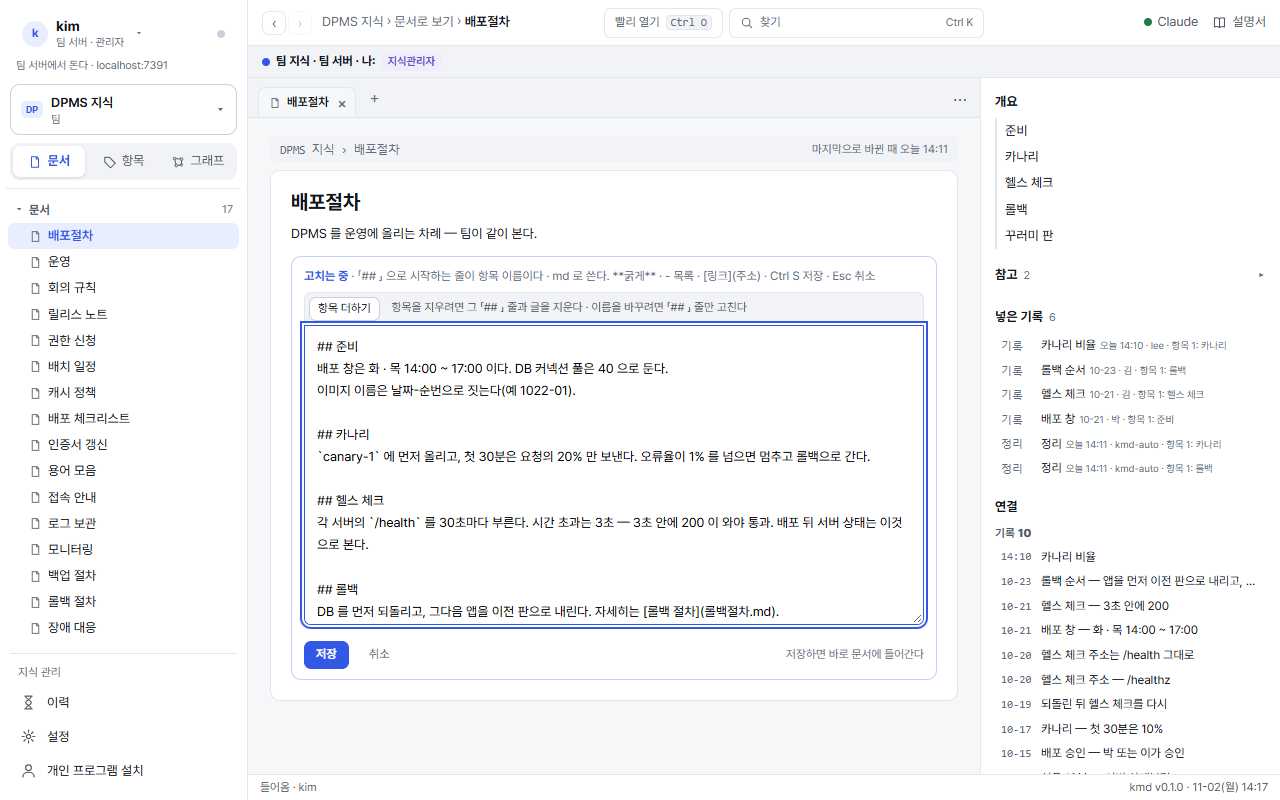
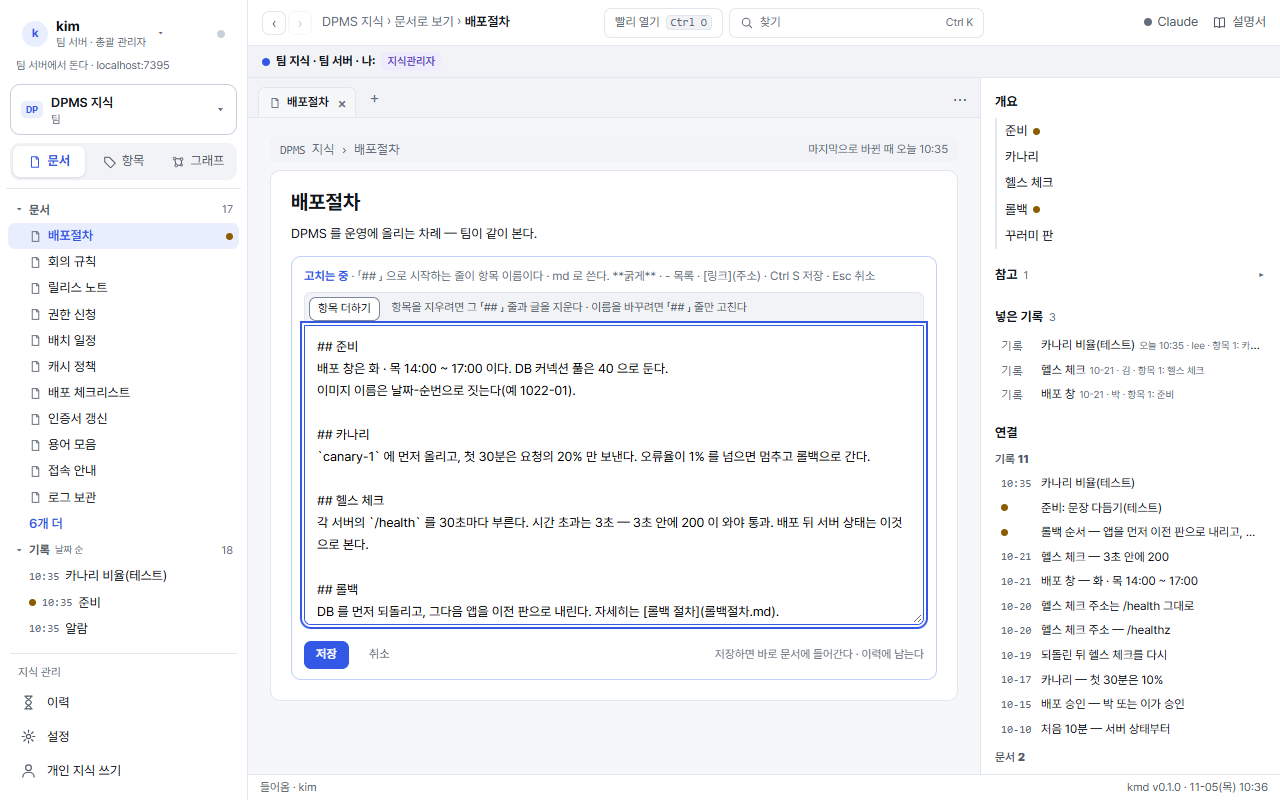
개편 끝: 설명서 그림 다시 찍기 — 팀 · 개인 그림 28장을 개편 뒤 화면으로(로컬 시험 환경 · 가짜 Claude · 시험 데이터 「테스트」) · 「개편 전 화면」 표시 · 그림 안내 상자 걷음 · 캡션 · 핀 맞춤 · 쓰지 않는 t-tidy* 셋 지움 / 화면 말: 옆 메뉴 · 설정 › 일반 「나」 의 「관리자」 → 「총괄 관리자」(용어집)

diff --git a/docs_ops/manual/사용자.html b/docs_ops/manual/사용자.html
@@ -19,8 +19,6 @@
 <li><b>개인 프로그램</b>(내 PC 의 kmd · 개인 화면): 내 개인 지식만. <a href="개인.html">개인 프로그램 설명서</a>.</li></ul>
 <p>두 화면은 서로를 부르지 않는다. 둘을 잇는 길은 Claude Code 연결 둘(<code>kmd-team</code> · <code>kmd</code>)과 개인 화면의 <b>지식 보내기</b>(개인 → 팀)뿐이다.</p></div>
 
-<div class="m-note"><b>그림</b><p>「개편 전 화면」 이라 적힌 그림은 「저장이 곧 반영」 개편(2026-11) 전에 찍었다. 그때 있던 정리 메뉴 · 정리 줄이 보이고, 옆 메뉴 맨 아래 「개인 프로그램 설치」 는 지금 「개인 지식 쓰기」 다. 글이 지금 화면을 말한다.</p></div>
-
 <h2 id="first"><span class="m-no">1</span>처음 들어오기</h2>
 <ol class="m-steps">
 <li><b>처음 들어오기 링크를 연다</b>관리자가 메신저로 보낸 링크(24시간 · 한 번)를 브라우저로 연다. 아이디는 링크와 함께 받는다.</li>
@@ -33,7 +31,7 @@
 <h2 id="screen"><span class="m-no">2</span>화면 둘러보기</h2>
 <figure class="m-shot"><div class="m-frame"><div class="m-bar"><i></i><i></i><i></i><span>팀 화면 · 문서로 보기</span></div><div class="m-pic"><img src="img/t-doc.png" alt="팀 화면: 왼쪽 메뉴 · 가운데 문서 · 오른쪽 속성 칸" loading="lazy">
 <span class="m-pin" style="left:9.8%;top:13.8%">1</span><span class="m-pin" style="left:15%;top:20%">2</span><span class="m-pin" style="left:4%;top:40%">3</span><span class="m-pin" style="left:4%;top:88%">4</span><span class="m-pin" style="left:62%;top:2.6%">5</span><span class="m-pin" style="left:45%;top:30%">6</span><span class="m-pin" style="left:73%;top:19%">7</span><span class="m-pin" style="left:88%;top:40%">8</span><span class="m-pin" style="left:95%;top:2.6%">9</span></div></div>
-<figcaption>개편 전 화면. DPMS 지식의 「배포절차」 문서를 연 모습. 오른쪽 칸 「넣은 기록」 의 「정리」 줄은 지금 없다.</figcaption></figure>
+<figcaption>DPMS 지식의 「배포절차」 문서를 연 모습(지식관리자). 넣지 못한 기록이 있는 항목 머리에 「넣지 못함 1」, 바로 넣은 항목에 「오늘 넣음: lee 의 기록에서」 가 보인다.</figcaption></figure>
 <ol class="m-legend">
 <li><b>지식 고르기</b>: 지식을 바꾸거나 「지식 목록: 전체」 로 간다.</li>
 <li><b>보는 법 셋</b>: 문서 · 항목 · 그래프.</li>
@@ -49,12 +47,12 @@
 
 <h3>지식 목록</h3>
 <figure class="m-shot"><div class="m-frame"><div class="m-bar"><i></i><i></i><i></i><span>팀 화면 · 지식 목록</span></div><div class="m-pic"><img src="img/t-home.png" alt="지식 목록: 팀 지식 카드와 새 팀 지식 카드" loading="lazy"></div></div>
-<figcaption>개편 전 화면. 카드마다 문서 수 · 마지막으로 바뀐 때 · 내 자리 표지 · 넣지 못함이 있으면 「넣지 못함 n」. 카드를 끌어 순서를 바꾸고, ⋯ 에서 「메뉴에서 빼기」 · 권한(지식관리자). 「+ 새 팀 지식」 은 총괄 관리자에게만 보인다.</figcaption></figure>
+<figcaption>카드마다 문서 수 · 마지막으로 바뀐 때 · 내 자리 표지 · 넣지 못함이 있으면 「넣지 못함 n」. 카드를 끌어 순서를 바꾸고, ⋯ 에서 「메뉴에서 빼기」 · 권한(지식관리자). 「+ 새 팀 지식」 은 총괄 관리자에게만 보인다.</figcaption></figure>
 
 <h2 id="view"><span class="m-no">3</span>보는 법 셋</h2>
 <div class="m-cards">
 <div class="m-card"><img src="img/t-doc.png" alt="" loading="lazy"><b>문서</b><p>문서 하나 = md 파일 하나. 항목(## 머리)으로 나뉜다. 글 속 문서 · 항목 링크에 마우스를 올리면 미리보기.</p></div>
-<div class="m-card"><img src="img/t-items.png" alt="" loading="lazy"><b>항목</b><p>테이블 · 화면 · API · 절차 · 용어처럼 이름 있는 것 하나하나. 종류별로 거르고, 「이 항목을 쓰는 곳」 이 같이 보인다. 그림은 개편 전 화면.</p></div>
+<div class="m-card"><img src="img/t-items.png" alt="" loading="lazy"><b>항목</b><p>테이블 · 화면 · API · 절차 · 용어처럼 이름 있는 것 하나하나. 종류별로 거르고, 「이 항목을 쓰는 곳」 이 같이 보인다.</p></div>
 <div class="m-card"><img src="img/t-graph.png" alt="" loading="lazy"><b>그래프</b><p>항목 · 문서 · 기록이 어떻게 이어졌나. 점을 누르면 이웃만 남는다.</p></div>
 </div>
 
@@ -78,7 +76,7 @@
 <tr><td><span class="m-role r-admin">총괄 관리자</span></td><td>모든 지식의 지식관리자 + 사람 · 팀 지식 세우기 · 백업 · Claude 연결</td><td>바로 문서에 들어간다</td></tr>
 </table></div>
 <figure class="m-shot"><div class="m-frame"><div class="m-bar"><i></i><i></i><i></i><span>문서 · 고치기</span></div><div class="m-pic"><img src="img/t-edit.png" alt="고치는 창: 항목 글을 고치고 저장" loading="lazy"></div></div>
-<figcaption>개편 전 화면(오른쪽 「넣은 기록」 의 「정리」 줄은 지금 없다). [고치기] 를 누르면 문서가 고치는 창이 된다. 저장하면 바로 문서에 들어가고 이력에 남는다. [항목 더하기] · 지식관리자는 「## 」 줄을 지우면 항목 지우기 · 「## 」 줄만 고치면 이름 바꾸기(저장 전에 한 번 묻는다).</figcaption></figure>
+<figcaption>[고치기] 를 누르면 문서가 고치는 창이 된다. 저장하면 바로 문서에 들어가고 이력에 남는다. [항목 더하기] · 지식관리자는 「## 」 줄을 지우면 항목 지우기 · 「## 」 줄만 고치면 이름 바꾸기(저장 전에 한 번 묻는다).</figcaption></figure>
 <ul>
 <li>쓰던 글은 찾기를 열고 닫거나 다른 화면에 갔다 와도 그대로다. 저장하지 않고 닫았으면 다음 [고치기] 때 되살린다(이 탭 안에서).</li>
 <li>들어온 것이 끝났으면(12시간 쉼 · 7일) 저장할 때 그 자리에서 비밀번호를 묻고 이어서 저장한다.</li>
@@ -94,7 +92,7 @@
 <li>그 기록이 들어간 항목이 없으면 정정 기록만 남고 「넣지 못함」 이 된다. 지식관리자가 넣을 곳을 고른다.</li>
 </ul>
 <figure class="m-shot"><div class="m-frame"><div class="m-bar"><i></i><i></i><i></i><span>쓰기 자리(lee)로 본 문서</span></div><div class="m-pic"><img src="img/t-lee.png" alt="쓰기 자리 사람이 본 문서" loading="lazy"></div></div>
-<figcaption>개편 전 화면. 쓰기 자리 사람의 화면. 위 띠에 「나: 쓰기」 가 보이고, 고친 것은 바로 문서에 들어간다.</figcaption></figure>
+<figcaption>쓰기 자리 사람의 화면. 위 띠에 「나: 쓰기」 가 보이고, 고친 것은 바로 문서에 들어간다.</figcaption></figure>
 <div class="m-note m-tip"><b>문서에 넣는 글의 기준</b><p>본문에는 확정된 지식만 쓴다. 회의 경위 · 초안 · 「언제 누가 바꿨나」 는 기록과 이력에 남고, 출처 줄은 kmd 가 문서 끝 「참고」 에 단다. 링크는 문서(<code>x.md</code>) · 항목(<code>x.md#머리</code>) · 바깥(<code>https://…</code>) 셋만.</p></div>
 
 <h2 id="import"><span class="m-no">6</span>가져오기: 파일 · 폴더 넣기</h2>
@@ -102,7 +100,7 @@
 <div class="m-flow"><div class="m-st m-hi"><b>1 수집</b><small>받기 · 글로 바꾸기</small></div><span class="m-ar">›</span><div class="m-st"><b>2 검토</b><small>같은 파일 · 크기 확인</small></div><span class="m-ar">›</span><div class="m-st m-pd"><b>3 짓기</b><small>팀 일꾼이 기록 + 문서를 짓는다</small></div><span class="m-ar">›</span><div class="m-st m-ok"><b>4 넣기</b><small>저장 한 번 · 이력에 남는다</small></div></div>
 <figure class="m-shot"><div class="m-frame"><div class="m-bar"><i></i><i></i><i></i><span>설정 › 가져오기 · 일 줄</span></div><div class="m-pic"><img src="img/t-import.png" alt="가져오기 일 줄: 넣을 곳 · 줄 · 오른쪽 자세히의 흐름" loading="lazy">
 <span class="m-pin" style="left:37%;top:32%">1</span><span class="m-pin" style="left:37%;top:44%">2</span><span class="m-pin" style="left:85%;top:49%">3</span><span class="m-pin" style="left:76%;top:84%">4</span></div></div>
-<figcaption>개편 전 화면(왼쪽 설정 메뉴의 정리는 지금 없다). 「배포 회의 메모.md」 를 DPMS 지식에 넣은 뒤의 일 줄.</figcaption></figure>
+<figcaption>「테스트 배포 회의 메모.md」 를 DPMS 지식에 넣은 뒤. 네 단계가 모두 끝남이고, 상태 칸에 넣은 문서 › 항목이 보인다.</figcaption></figure>
 <ol class="m-legend">
 <li><b>넣는 곳</b>: 끌어다 놓기 · 파일 고르기 · 폴더 고르기 · 넣을 지식.</li>
 <li><b>거르기 · 손잡이</b>: 전체 · 도는 중 · 기다림 · 멈춤 · 확인. 동시에 도는 수 · 줄 멈춤.</li>
@@ -118,13 +116,13 @@
 <li>손잡이: 팀 일꾼에게 넘긴 파일은 [빼기] · [그만두기] 만 있다. 아직 짓지 않았으면 기록 없이 닫고, 짓는 중이면 초안을 넣지 않고 닫는다.</li>
 <li><b>끝난 일</b>은 30일 남는다(터미널 줄까지). 파일 · 제목으로 찾는다.</li>
 </ul>
-<figure class="m-shot"><div class="m-frame"><div class="m-bar"><i></i><i></i><i></i><span>가져오기 · 끝난 일</span></div><div class="m-pic"><img src="img/t-import-done.png" alt="끝난 일 목록" loading="lazy"></div></div><figcaption>개편 전 화면.</figcaption></figure>
+<figure class="m-shot"><div class="m-frame"><div class="m-bar"><i></i><i></i><i></i><span>가져오기 · 끝난 일</span></div><div class="m-pic"><img src="img/t-import-done.png" alt="끝난 일 목록" loading="lazy"></div></div><figcaption>끝난 일: 날마다 시각 · 일 · 단계 · 결과 · [보기] · 터미널. 파일 · 제목 · 갈래 · 결과로 거른다.</figcaption></figure>
 <h3>가져올 곳(지켜보며 맞추기)</h3>
 <p>문서 폴더 · 소스 코드(git) · DB 를 정한 때마다 다시 본다. 더하기 · 고치기는 그 지식의 지식관리자가 한다. 쓰기 자리는 [관리자에게 부탁] 을 누른다. 자세한 것은 <a href="지식관리자.html#sources">지식관리자 설명서</a>.</p>
 
 <h2 id="history"><span class="m-no">7</span>이력</h2>
 <figure class="m-shot"><div class="m-frame"><div class="m-bar"><i></i><i></i><i></i><span>지식 관리 › 이력</span></div><div class="m-pic"><img src="img/t-history.png" alt="이력: 날마다 바뀐 것 · 값 바뀜" loading="lazy"></div></div>
-<figcaption>개편 전 화면. 내가 볼 수 있는 팀 지식에서 바뀐 것을 한 흐름으로(날마다). 갈래는 저장 · 고침 · 들이기 · 다듬기 · 되돌림 · 넣지 못함 · 버림 · 가져오기 · 받음 · 설정 · 지식(새 지식 · 지움 · 새 기기). 개편 전에 남은 줄은 「정리」 · 「바로 넣기」 갈래로 보인다.</figcaption></figure>
+<figcaption>내가 볼 수 있는 팀 지식에서 바뀐 것을 한 흐름으로(날마다). 갈래는 저장 · 고침 · 들이기 · 다듬기 · 되돌림 · 넣지 못함 · 버림 · 가져오기 · 받음 · 설정 · 지식(새 지식 · 지움 · 새 기기). 그림은 저장 줄(「카나리: 10% → 20%」)과 넣지 못함 줄. 개편 전에 남은 줄은 「정리」 · 「바로 넣기」 갈래로 보인다.</figcaption></figure>
 <ul>
 <li>내 값이 바뀐 줄은 맨 위 <b>값 바뀜</b>(노랑). 저장 줄을 펼치면 넣은 항목마다 「옛 값 → 새 값」 이 보이고, 내 저장(지식관리자는 모든 저장)은 그 항목만 [되돌리기] 한다. 그 뒤 누가 다시 고친 항목은 되돌리지 않는다.</li>
 <li>갈래 · 지식으로 거르고, 줄을 누르면 펼쳐 그 일 · 문서를 연다.</li>
@@ -133,7 +131,7 @@
 
 <h2 id="claude"><span class="m-no">8</span>Claude Code 에 팀 지식 붙이기</h2>
 <p>설정 › <b>에이전트 설치</b>(누구나). 작업 폴더의 Claude Code 가 팀 지식을 읽고 남기게 한다.</p>
-<figure class="m-shot"><div class="m-frame"><div class="m-bar"><i></i><i></i><i></i><span>설정 › 에이전트 설치</span></div><div class="m-pic"><img src="img/t-agent.png" alt="에이전트 설치: 팀 지식마다 설치 명령 복사" loading="lazy"></div></div><figcaption>개편 전 화면(왼쪽 설정 메뉴의 정리는 지금 없다).</figcaption></figure>
+<figure class="m-shot"><div class="m-frame"><div class="m-bar"><i></i><i></i><i></i><span>설정 › 에이전트 설치</span></div><div class="m-pic"><img src="img/t-agent.png" alt="에이전트 설치: 팀 지식마다 설치 명령 복사" loading="lazy"></div></div><figcaption>네 걸음 안내 · 대량 넣기 안내 · 붙일 팀 지식마다 [설치 명령 복사].</figcaption></figure>
 <ol class="m-steps">
 <li><b>붙일 팀 지식의 [설치 명령 복사]</b>내가 읽기 자리 이상인 팀 지식만 고를 수 있다.</li>
 <li><b>작업 폴더의 PowerShell 에 붙여 넣고 Enter</b>그 폴더에 팀 스킬 셋(<code>kmd-team-work</code> · <code>kmd-team-save</code> · <code>kmd-team-import</code>) · 연결 <code>kmd-team</code>(.mcp.json) · CLAUDE.md 안내만 쓴다. 다른 연결 · 사람이 쓴 줄은 그대로다. 끝에 Claude Code 가 이 PC 에 있나 · 로그인했나를 한 줄로 알린다(없으면 깔고, 로그인하지 않았으면 터미널에서 <code>claude auth login</code>). 팀 지식만 쓰면 개인 프로그램은 깔지 않아도 된다.</li>
@@ -152,8 +150,8 @@
 
 <h2 id="install"><span class="m-no">9</span>개인 지식 쓰기</h2>
 <p>옆 메뉴 맨 아래 <b>개인 지식 쓰기</b>(누구나). 팀 지식만 쓰면 개인 프로그램은 필요 없다(8절 에이전트 설치 한 줄이면 된다). 개인 지식을 쓰려면: 이 PC 에 개인 프로그램을 깔고(또는 새 판으로 올리고) 팀에 잇는 한 줄과 내 기기 목록이 여기 있다.</p>
-<figure class="m-shot"><div class="m-frame"><div class="m-bar"><i></i><i></i><i></i><span>개인 지식 쓰기</span></div><div class="m-pic"><img src="img/t-install.png" alt="개인 지식 쓰기: 개인 프로그램 설치 · 업데이트 · 잇기 한 줄과 내 기기" loading="lazy"></div></div>
-<figcaption>개편 전 화면(그때 메뉴 이름은 「개인 프로그램 설치」). [한 줄 복사] → PowerShell 에 붙여 넣는다(10분 · 한 번). 그 뒤의 일은 <a href="개인.html">개인 프로그램 설명서</a>.</figcaption></figure>
+<figure class="m-shot"><div class="m-frame"><div class="m-bar"><i></i><i></i><i></i><span>개인 지식 쓰기</span></div><div class="m-pic"><img src="img/t-install.png" alt="개인 지식 쓰기: 설치 · 업데이트 · 잇기 한 줄과 내 기기" loading="lazy"></div></div>
+<figcaption>[한 줄 복사] → PowerShell 에 붙여 넣는다(10분 · 한 번). 그 뒤의 일은 <a href="개인.html">개인 프로그램 설명서</a>.</figcaption></figure>
 
 <h2 id="out"><span class="m-no">10</span>나가기 · 밖으로 나가는 것</h2>
 <ul>

diff --git a/docs_ops/manual/개인.html b/docs_ops/manual/개인.html
@@ -18,7 +18,7 @@
 <h2 id="install"><span class="m-no">1</span>설치 · 업데이트 · 팀에 잇기</h2>
 <p>팀 지식만 쓰면 개인 프로그램은 필요 없다: 팀 화면 › 설정 › 에이전트 설치의 한 줄로 작업 폴더의 Claude Code 에 팀 지식을 붙이고, 폴더째 많은 파일도 그 Claude Code 에서 넣는다(대량 넣기 <code>kmd-team-import</code>). 개인 지식을 쓰려면 이 프로그램을 깐다.</p>
 <p>까는 길도, 새 판으로 올리는 길도 <b>한 줄</b>이다. 팀 화면 › 옆 메뉴 <b>개인 지식 쓰기</b> › [한 줄 복사] → PowerShell 에 붙여 넣는다(10분 안에 한 번).</p>
-<figure class="m-shot"><div class="m-frame"><div class="m-bar"><i></i><i></i><i></i><span>팀 화면 › 개인 지식 쓰기</span></div><div class="m-pic"><img src="img/t-install.png" alt="개인 지식 쓰기: 한 줄 복사 · 내 기기" loading="lazy"></div></div><figcaption>개편 전 화면(그때 메뉴 이름은 「개인 프로그램 설치」).</figcaption></figure>
+<figure class="m-shot"><div class="m-frame"><div class="m-bar"><i></i><i></i><i></i><span>팀 화면 › 개인 지식 쓰기</span></div><div class="m-pic"><img src="img/t-install.png" alt="개인 지식 쓰기: 한 줄 복사 · 내 기기" loading="lazy"></div></div><figcaption>팀 화면 옆 메뉴 맨 아래 「개인 지식 쓰기」: 설치 · 업데이트 · 잇기 한 줄 [한 줄 복사] 와 내 이름으로 이은 기기.</figcaption></figure>
 <p>묻는 것 없이 끝나고 ✓ 넷이 찍힌다.</p>
 <pre><code>✓ 세웠다: 이 PC 의 내 지식 자리(D:\kmd)와 백업 자리
 ✓ 팀에 이었다: 내 이름으로
@@ -54,10 +54,10 @@
 <li><b>정리가 따로 없다.</b> 기록(세션 · 화면 · 받은 것 · 소스 코드 묶음 · 넣은 파일)은 남는 즉시 문서에 들어간다. Claude 로 다듬어 넣고(검사를 넘을 때만), 로그인이 없거나 검사를 못 넘으면 규칙으로 넣는다.</li>
 <li><b>편집기로 md 를 직접 고쳐도 된다.</b> 30초 조용하면 저절로 들어가고, 꺼져 있던 동안 고친 것은 켤 때 거둔다. 기록(<code>work/</code>) · 이름 장부는 고치지 않는다(kmd 가 되돌리고 사본을 남긴다).</li>
 </ul>
-<figure class="m-shot"><div class="m-frame"><div class="m-bar"><i></i><i></i><i></i><span>개인 화면 · 문서</span></div><div class="m-pic"><img src="img/p-doc.png" alt="개인 지식 배포노트의 카나리 메모 문서" loading="lazy"></div></div><figcaption>개편 전 화면(오른쪽 속성 칸의 「마지막 정리」 는 지금 「마지막으로 넣음」 이다).</figcaption></figure>
+<figure class="m-shot"><div class="m-frame"><div class="m-bar"><i></i><i></i><i></i><span>개인 화면 · 문서</span></div><div class="m-pic"><img src="img/p-doc.png" alt="개인 지식 배포노트의 카나리 메모 문서" loading="lazy"></div></div><figcaption>개인 지식 배포노트의 「카나리 메모」 문서. 오른쪽 칸은 개요 · 넣은 기록 · 연결 · 속성(마지막으로 넣음 · 자리 · 항목 수).</figcaption></figure>
 
 <h2 id="import"><span class="m-no">4</span>파일 넣기 · 가져오기</h2>
-<figure class="m-shot"><div class="m-frame"><div class="m-bar"><i></i><i></i><i></i><span>설정 › 가져오기</span></div><div class="m-pic"><img src="img/p-import.png" alt="개인 화면 가져오기 일 줄" loading="lazy"></div></div><figcaption>개편 전 화면(위 띠의 「Claude 정리뿐」 은 지금 「Claude 바로 넣기뿐」 이다).</figcaption></figure>
+<figure class="m-shot"><div class="m-frame"><div class="m-bar"><i></i><i></i><i></i><span>설정 › 가져오기</span></div><div class="m-pic"><img src="img/p-import.png" alt="개인 화면 가져오기 일 줄" loading="lazy"></div></div><figcaption>개인 화면의 가져오기: 넣을 곳(개인 지식) · 일 줄 · 가져올 곳 · 끝난 일. 위 띠 오른쪽 「밖으로 나가는 것은 백업 · Claude 바로 넣기뿐」.</figcaption></figure>
 <p>파일을 끌어다 놓으면 파일마다 기록이 되고, kmd 가 Claude Code 를 띄워 <b>세션처럼</b> 넣는다. 일 줄의 단계 이름은 수집 › 검토 › <b>짓기</b>(기록 쓰기) › <b>넣기</b>(항목에 넣기)다.</p>
 <div class="m-flow"><div class="m-st"><b>끝까지 읽기</b><small>넣은 파일</small></div><span class="m-ar">›</span><div class="m-st"><b>둘러보기</b><small>지식의 문서 · 이름</small></div><span class="m-ar">›</span><div class="m-st"><b>이름 맞추기</b><small>테이블 · 화면 · 절차 · 용어</small></div><span class="m-ar">›</span><div class="m-st m-hi"><b>항목에 넣기</b><small>갈래 · 주제 문서</small></div><span class="m-ar">›</span><div class="m-st m-ok"><b>이력에 남기기</b><small>무엇을 왜 어디에</small></div></div>
 <ul>
@@ -69,7 +69,7 @@
 
 <h2 id="send"><span class="m-no">5</span>지식 보내기(개인 → 팀)</h2>
 <figure class="m-shot"><div class="m-frame"><div class="m-bar"><i></i><i></i><i></i><span>설정 › 지식 보내기</span></div><div class="m-pic"><img src="img/p-send.png" alt="지식 보내기: 보내는 지식에서 받는 팀 지식 고르기" loading="lazy">
-<span class="m-pin" style="left:40%;top:24%">1</span><span class="m-pin" style="left:76%;top:24%">2</span><span class="m-pin" style="left:60%;top:46%">3</span><span class="m-pin" style="left:93%;top:59%">4</span></div></div><figcaption>개편 전 화면. 그림의 「정리 때 문서에」 는 지금 「받을 때 곧바로 문서에」 다.</figcaption></figure>
+<span class="m-pin" style="left:40%;top:24%">1</span><span class="m-pin" style="left:76%;top:24%">2</span><span class="m-pin" style="left:60%;top:46%">3</span><span class="m-pin" style="left:93%;top:61%">4</span></div></div><figcaption>받는 지식을 아직 정하지 않은 개인 지식. 팀 지식 줄마다 「받을 때 곧바로 문서에」.</figcaption></figure>
 <ol class="m-legend">
 <li><b>보내는 지식</b>(개인).</li>
 <li><b>받는 지식</b>(팀). 개인 지식마다 하나로 묶인다. 처음 한 번 정한다.</li>
@@ -91,7 +91,7 @@
 <figure class="m-shot"><div class="m-frame"><div class="m-bar"><i></i><i></i><i></i><span>설정 › 일반</span></div><div class="m-pic"><img src="img/p-gen.png" alt="개인 설정 일반: 지식 폴더 · 백업 · 저절로 하는 일 · 보내는 길" loading="lazy"></div></div>
 <figcaption>지식 폴더 · 백업 자리 · 백업에서 되살리기 · 저절로 하는 일(켜고 끄기) · 보내는 길.</figcaption></figure>
 <h3 id="claude-login">Claude 로그인</h3>
-<figure class="m-shot"><div class="m-frame"><div class="m-bar"><i></i><i></i><i></i><span>설정 › Claude 연결</span></div><div class="m-pic"><img src="img/p-claude.png" alt="Claude 연결: 로그인 상태 · 일마다 모델" loading="lazy"></div></div><figcaption>개편 전 화면(위 띠의 「Claude 정리뿐」 은 지금 「Claude 바로 넣기뿐」, 모델 줄의 「항목 글 초안」 은 지금 「들이기 초안」 이다).</figcaption></figure>
+<figure class="m-shot"><div class="m-frame"><div class="m-bar"><i></i><i></i><i></i><span>설정 › Claude 연결</span></div><div class="m-pic"><img src="img/p-claude.png" alt="Claude 연결: 로그인 상태 · 일마다 모델" loading="lazy"></div></div><figcaption>로그인 상태 카드와 일마다 모델(pdf · hwp 를 글로 · 넣은 파일의 기록 정리 · 기록의 이름 고르기 · 들이기 초안 …).</figcaption></figure>
 <ol class="m-steps">
 <li><b>[Claude 로그인] 을 누른다</b>작업 표시줄에 「kmd: Claude 로그인」 창(<code>claude auth login</code>)이 뜨고 브라우저를 연다.</li>
 <li><b>브라우저에서 Claude 에 들어간다</b>이 화면이 몇 초마다 저절로 확인해 「로그인됨」 으로 바뀐다([지금 확인] 도 있다).</li>

diff --git a/docs_ops/manual/관리자.html b/docs_ops/manual/관리자.html
@@ -13,7 +13,6 @@
 <h1>총괄 관리자</h1>
 <p class="m-lead">팀 서버(팀 프로그램)를 세우고, 사람 · 지식마다의 자리 · 백업 · 팀 일꾼 Claude 로그인을 돌본다. 지식 하나의 넣지 못함 · 다듬기 · 가져오기 · 권한은 <a href="지식관리자.html">지식관리자 설명서</a>, 밤 묶음 · 되살리기 · 새 판은 <a href="운영.html">운영 설명서</a>.</p>
 
-<div class="m-note"><b>그림</b><p>「개편 전 화면」 이라 적힌 그림은 「저장이 곧 반영」 개편(2026-11) 전에 찍었다. 그때 있던 정리 메뉴 · 정리 줄이 보이고, 옆 메뉴 맨 아래 「개인 프로그램 설치」 는 지금 「개인 지식 쓰기」 다. 글이 지금 화면을 말한다.</p></div>
 
 <h2 id="setup"><span class="m-no">1</span>팀 서버 세우기</h2>
 <div class="m-flow"><div class="m-st"><b>팀 꾸러미</b><small>kmd-&lt;판&gt;-team.tgz</small></div><span class="m-ar">›</span><div class="m-st m-hi"><b>kmd-install.sh</b><small>/opt/kmd · systemd</small></div><span class="m-ar">›</span><div class="m-st"><b>첫 설정 주소</b><small>총괄 관리자 만들기</small></div><span class="m-ar">›</span><div class="m-st m-ok"><b>사람 더하기</b><small>처음 들어오기 링크</small></div></div>
@@ -30,8 +29,8 @@ sudo sh kmd-install.sh --team --url http://kmd.team.local --root /srv/kmd --port
 </ul>
 
 <h2 id="admin"><span class="m-no">2</span>관리 화면: 문제 줄만</h2>
-<figure class="m-shot"><div class="m-frame"><div class="m-bar"><i></i><i></i><i></i><span>설정 › 관리</span></div><div class="m-pic"><img src="img/t-admin.png" alt="관리 화면: 문제 줄 · 백업 · 지식" loading="lazy"></div></div>
-<figcaption>개편 전 화면. 잘 될 때는 비어 있다. 손볼 것만 줄로 선다.</figcaption></figure>
+<figure class="m-shot"><div class="m-frame"><div class="m-bar"><i></i><i></i><i></i><span>설정 › 관리</span></div><div class="m-pic"><img src="img/t-admin.png" alt="관리 화면: 오늘의 문제 줄 · 사람 · 묶음" loading="lazy"></div></div>
+<figcaption>잘 될 때는 「오늘은 문제가 없다」 만 보인다. 손볼 것만 줄로 선다. 아래로 사람 · 묶음 카드가 잇는다.</figcaption></figure>
 <div class="m-tbl"><table><tr><th>문제 줄</th><th>하는 것</th></tr>
 <tr><td>비밀번호를 안 정한 사람</td><td>사람 카드 ⋯ › [새 링크](이 사람만 · 24시간 · 한 번). 떠난 사람이면 [떠남]</td></tr>
 <tr><td>잠김</td><td>여러 번 틀린 자리는 잠시 막힌다(맞는 사람은 그대로 쓴다). [풀기]</td></tr>
@@ -44,7 +43,7 @@ sudo sh kmd-install.sh --team --url http://kmd.team.local --root /srv/kmd --port
 
 <h2 id="people"><span class="m-no">3</span>사람</h2>
 <figure class="m-shot"><div class="m-frame"><div class="m-bar"><i></i><i></i><i></i><span>설정 › 사람</span></div><div class="m-pic"><img src="img/t-people.png" alt="사람 카드: 상태 · 기기 · 지식마다 자리" loading="lazy">
-<span class="m-pin" style="left:40%;top:54%">1</span><span class="m-pin" style="left:45%;top:33%">2</span><span class="m-pin" style="left:95%;top:38%">3</span></div></div><figcaption>개편 전 화면(왼쪽 설정 메뉴의 정리는 지금 없다).</figcaption></figure>
+<span class="m-pin" style="left:40%;top:52%">1</span><span class="m-pin" style="left:45%;top:33%">2</span><span class="m-pin" style="left:95%;top:36%">3</span></div></div><figcaption>사람 셋(kim 총괄 관리자 · park · lee)과 묶음 카드. 아래 줄에 총괄 관리자와 지식마다 자리가 하는 일.</figcaption></figure>
 <ol class="m-legend">
 <li><b>+ 사람 더하기</b>: 아이디 · 총괄 관리자 여부 · 지식마다 자리 표.</li>
 <li><b>사람 카드</b>: 상태(들어온다 · 링크 보냄 · 비밀번호를 안 정함) · 기기 · 「지식 n개에 자리」.</li>
@@ -74,7 +73,7 @@ sudo sh kmd-install.sh --team --url http://kmd.team.local --root /srv/kmd --port
 </table></div>
 
 <h2 id="claude"><span class="m-no">5</span>Claude 연결: 팀 일꾼 로그인</h2>
-<figure class="m-shot"><div class="m-frame"><div class="m-bar"><i></i><i></i><i></i><span>설정 › Claude 연결</span></div><div class="m-pic"><img src="img/t-claude.png" alt="Claude 연결: 팀 일꾼 로그인 상태" loading="lazy"></div></div><figcaption>개편 전 화면. 지금 이 화면(설정 › Claude 연결)의 카드는 「팀 일꾼 로그인」 을 다루고, 쓰는 곳은 들이기(파일 넣기 · 가져올 곳 · 정정 · 다시 들이기 · 다듬기)다.</figcaption></figure>
+<figure class="m-shot"><div class="m-frame"><div class="m-bar"><i></i><i></i><i></i><span>설정 › Claude 연결</span></div><div class="m-pic"><img src="img/t-claude.png" alt="Claude 연결: 팀 일꾼 로그인 상태" loading="lazy"></div></div><figcaption>「Claude 연결」 카드(팀 일꾼 로그인): 로그인됨 · [다시 로그인]. 쓰는 곳은 들이기(파일 넣기 · 가져올 곳 · 정정 · 다시 들이기)와 문서 다듬기다.</figcaption></figure>
 <ol class="m-steps">
 <li><b>[로그인 시작]</b>: 15분 안에 비밀번호를 넣지 않았으면 「비밀번호 한 번 더」 창이 먼저 뜬다.</li>
 <li><b>화면 있는 서버</b>(Windows · macOS · 화면 있는 Linux)면 그 PC 에 「kmd: Claude 로그인」 창이 뜬다. 거기서 로그인하면 관리 화면이 몇 초마다 저절로 확인한다.</li>
@@ -88,7 +87,7 @@ sudo sh kmd-install.sh --team --url http://kmd.team.local --root /srv/kmd --port
 <p>일꾼 손잡이는 <code>/etc/kmd/worker.env</code> 의 환경 변수다: <code>KMD_WORKER_PAR</code>(Claude 동시 호출 · 기본 3) · <code>KMD_WORKER_JOBS</code>(일감을 나란히 · 기본 2) · <code>KMD_INGEST_BUDGET</code>(들이기 한 번의 예산 달러 · 기본 1.0) · <code>KMD_INGEST_EFFORT</code> · <code>KMD_INGEST_FIX</code>(고쳐 쓰기 · 기본 2). 옛 이름 <code>KMD_TIDY_*</code> 도 읽는다. 고친 뒤 <code>systemctl restart kmd-worker</code>.</p>
 
 <h2 id="general"><span class="m-no">6</span>일반 설정 · 백업 자리</h2>
-<figure class="m-shot"><div class="m-frame"><div class="m-bar"><i></i><i></i><i></i><span>설정 › 일반</span></div><div class="m-pic"><img src="img/t-gen.png" alt="일반: 이 팀 서버 · 저절로 하는 일" loading="lazy"></div></div><figcaption>개편 전 화면. 오른쪽 위 카드는 지금 「팀 지식」 표다: 지식마다 넣지 못함 수와 「Claude 에 보내지 않음」 스위치(지식관리자 · <a href="지식관리자.html#polish">지식관리자 설명서 3절</a>).</figcaption></figure>
+<figure class="m-shot"><div class="m-frame"><div class="m-bar"><i></i><i></i><i></i><span>설정 › 일반</span></div><div class="m-pic"><img src="img/t-gen.png" alt="일반: 이 팀 서버 · 팀 지식 표 · 저절로 하는 일" loading="lazy"></div></div><figcaption>왼쪽은 이 팀 서버(들어가기 · 백업 · 판), 오른쪽 위는 「팀 지식」 표: 지식마다 넣지 못함 수와 「Claude 에 보내지 않음」 스위치(지식관리자 · <a href="지식관리자.html#polish">지식관리자 설명서 3절</a>), 그 아래 저절로 하는 일.</figcaption></figure>
 <ul>
 <li>팀 지식의 백업: GitLab 봇(<code>serve.json</code> 의 <code>gitlab</code>)이 저절로 붙이거나 <code>kmd backup add &lt;지식&gt; &lt;주소&gt;</code>(<code>backupRoots</code> 안의 폴더 · https · ssh).</li>
 <li>저장 뒤 바로 보내고, 안 되면 1 · 5 · 15 · 60분 · 매일 다시. 6시간 밀리면 노랑 · 24시간이면 빨강 한 줄.</li>

diff --git a/docs_ops/kmd_서비스_전체.html b/docs_ops/kmd_서비스_전체.html
@@ -984,13 +984,13 @@ svg.arch .hit:focus-visible rect{stroke:var(--accent);stroke-width:3;stroke-dash
 
 <div class="m-cards sc7">
 <a class="m-card" href="manual/지식관리자.html#held"><img src="manual/img/t-held.png" alt="" loading="lazy"><b>넣지 못함</b><p>요약 줄 · 개편 전 기록 · 까닭 · [고치기] · [다시 들이기]</p></a>
-<a class="m-card" href="manual/사용자.html#screen"><img src="manual/img/t-doc.png" alt="" loading="lazy"><b>팀 화면 · 문서</b><p>칩 · 오른쪽 칸 · 개편 전 화면</p></a>
-<a class="m-card" href="manual/사용자.html#import"><img src="manual/img/t-import.png" alt="" loading="lazy"><b>가져오기 · 일 줄</b><p>개편 전 화면: 지금 단계는 수집 › 검토 › 짓기 › 넣기 · 메뉴 「정리」 는 「넣지 못함」</p></a>
-<a class="m-card" href="manual/사용자.html#history"><img src="manual/img/t-history.png" alt="" loading="lazy"><b>이력</b><p>개편 전 화면: 지금은 정리 줄이 없고 저장마다 「옛 값 → 새 값」</p></a>
-<a class="m-card" href="manual/개인.html#screen"><img src="manual/img/p-home.png" alt="" loading="lazy"><b>개인 화면</b><p>지식 폴더 띠 · 개인 지식 · 개편 전 화면</p></a>
-<a class="m-card" href="manual/개인.html#send"><img src="manual/img/p-send.png" alt="" loading="lazy"><b>지식 보내기</b><p>개편 전 화면: 지금은 「정리 때」 가 아니라 보내는 그 순간 넣거나 넣지 못함</p></a>
+<a class="m-card" href="manual/사용자.html#screen"><img src="manual/img/t-doc.png" alt="" loading="lazy"><b>팀 화면 · 문서</b><p>넣지 못함 칩 · [다듬기] · 오른쪽 칸</p></a>
+<a class="m-card" href="manual/사용자.html#import"><img src="manual/img/t-import.png" alt="" loading="lazy"><b>가져오기 · 일 줄</b><p>수집 › 검토 › 짓기 › 넣기 · 넣은 문서 › 항목</p></a>
+<a class="m-card" href="manual/사용자.html#history"><img src="manual/img/t-history.png" alt="" loading="lazy"><b>이력</b><p>저장마다 「옛 값 → 새 값」 · 넣지 못함 줄</p></a>
+<a class="m-card" href="manual/개인.html#screen"><img src="manual/img/p-home.png" alt="" loading="lazy"><b>개인 화면</b><p>지식 폴더 띠 · 개인 지식 카드</p></a>
+<a class="m-card" href="manual/개인.html#send"><img src="manual/img/p-send.png" alt="" loading="lazy"><b>지식 보내기</b><p>받는 팀 지식 하나 · 받을 때 곧바로 문서에</p></a>
 </div>
-<p class="small muted">「개편 전 화면」 은 2026-11-02 에 찍은 그림이다(정리 메뉴 · 「정리 때 문서에」 말이 남아 있다). 「넣지 못함」 그림만 개편 뒤(2026-11-04)에 다시 찍었다. 다시 찍는 법은 <a href="kmd_서비스_전체.md">글 판</a> 13절 끝.</p>
+<p class="small muted">그림은 개편 뒤 로컬 시험 환경(시험 데이터)에서 1280 폭으로 찍었다(2026-11-05 · 넣지 못함은 2026-11-04). 다시 찍는 법은 <a href="kmd_서비스_전체.md">글 판</a> 13절 끝.</p>
 </article>
 
 <article class="man">
@@ -1311,7 +1311,7 @@ curl -s localhost:8090/healthz                 # build 가 새 판인지</code><
 </svg>
 </div>
 <p class="small muted">줄 글은 <code>server/hub.js</code> · <code>core/backup.js</code> 의 멈춤 줄 그대로다. 명령은 팀 서버에서 그냥 <code>kmd</code>(kmd 사용자 · <code>/srv/kmd</code> 로 돈다). 자세히는 <a href="manual/운영.html">운영 설명서</a> 6절.</p>
-<figure class="m-shot"><div class="m-frame"><div class="m-bar"><i></i><i></i><i></i><span>설정 › 관리</span></div><div class="m-pic"><img src="manual/img/t-admin.png" alt="관리 화면" loading="lazy"></div></div><figcaption>관리 화면은 문제 줄만 보인다. 개편 전 화면(2026-11-02): 설정 메뉴의 「정리」 는 지금 「넣지 못함」 이다. 자세히는 <a href="manual/운영.html">운영 설명서</a>.</figcaption></figure>
+<figure class="m-shot"><div class="m-frame"><div class="m-bar"><i></i><i></i><i></i><span>설정 › 관리</span></div><div class="m-pic"><img src="manual/img/t-admin.png" alt="관리 화면" loading="lazy"></div></div><figcaption>관리 화면은 문제 줄만 보인다(문제가 없으면 「오늘은 문제가 없다」). 자세히는 <a href="manual/운영.html">운영 설명서</a>.</figcaption></figure>
 </article>
 
 <article class="man">

diff --git a/app/main.js b/app/main.js
@@ -578,7 +578,7 @@ function sideHtml(left) {
 // 들어온 사람 — 왼쪽 메뉴 맨 위 · 누르면 설정 · (팀) 나가기
 function meHtml() {
   const menu = S.menu === 'me' ? popHtml('me', `<div data-t="meMenu"><div class="mi" data-a="nav" data-s="settings" data-t="meSettings">설정</div>${isTeam() ? '<div class="sep"></div><div class="mi" data-a="logout" data-t="meLogout">나가기<small>이 브라우저에서</small></div><div class="mi" data-a="logoutAll" data-t="meLogoutAll">모든 곳에서 나가기<small>다른 기기 · 브라우저도</small></div>' : ''}</div>`) : ''
-  return `<div class="sb-me-top" data-a="menu" data-m="me" data-t="me" title="설정 · 나가기">${menu}<span class="av">${esc(String(S.me.user).slice(0, 1))}</span><span class="un"><b>${esc(S.me.user)}</b><small>${isTeam() ? "팀 서버" : "이 PC"}${S.me.admin && isTeam() ? " · 관리자" : ""}</small></span><span class="rc">▾</span></div>`
+  return `<div class="sb-me-top" data-a="menu" data-m="me" data-t="me" title="설정 · 나가기">${menu}<span class="av">${esc(String(S.me.user).slice(0, 1))}</span><span class="un"><b>${esc(S.me.user)}</b><small>${isTeam() ? "팀 서버" : "이 PC"}${S.me.admin && isTeam() ? " · 총괄 관리자" : ""}</small></span><span class="rc">▾</span></div>`
 }
 function hdrHtml(crumb) {
   const r = S.route
@@ -3330,7 +3330,7 @@ function pcBackupCard(st) {
 }
 function setLeft(st) {
   const bk = st.backup.n ? `${esc(st.backup.urls.join(' · '))} · 저장할 때마다 저절로${st.backup.n < st.backup.of ? ` · 지식 ${st.backup.of - st.backup.n} 은 아직 없다` : ''}` : '아직 없다. 관리자가 붙인다'
-  if (isTeam()) return `<div class="card" style="overflow:visible"><div class="ch">이 팀 서버 <small class="mono">${esc(st.host)}</small></div><div class="cb"><div class="kv"><span>들어가기</span><span>아이디 ${esc(S.me.user)} · 비밀번호는 브라우저가 기억한다 <button type="button" class="lk small" data-a="logout" data-t="logout">나가기</button></span><span>나</span><span>${S.me.admin ? '<span class="kt role">관리자</span>' : '일반'}</span><span>백업</span><span>${bk}</span><span>판</span><span>kmd v${esc(st.version)}</span></div></div>${S.me.admin ? '<div class="cf"><button type="button" class="lk" data-a="setTab" data-v="admin">관리: 문제 · 백업 →</button></div>' : ''}</div>`
+  if (isTeam()) return `<div class="card" style="overflow:visible"><div class="ch">이 팀 서버 <small class="mono">${esc(st.host)}</small></div><div class="cb"><div class="kv"><span>들어가기</span><span>아이디 ${esc(S.me.user)} · 비밀번호는 브라우저가 기억한다 <button type="button" class="lk small" data-a="logout" data-t="logout">나가기</button></span><span>나</span><span>${S.me.admin ? '<span class="kt role">총괄 관리자</span>' : '일반'}</span><span>백업</span><span>${bk}</span><span>판</span><span>kmd v${esc(st.version)}</span></div></div>${S.me.admin ? '<div class="cf"><button type="button" class="lk" data-a="setTab" data-v="admin">관리: 문제 · 백업 →</button></div>' : ''}</div>`
   const pcBad = S.stops.find((x) => x.kind === 'backup')
   return `<div class="card"><div class="ch">이 PC</div><div class="cb"><div class="kv"><span>지식 폴더</span><span><span class="mono">${esc(st.root)}</span>: 지식 ${st.kns}</span><span>백업 자리</span><span data-t="pcBackup">${st.backup.root ? `<span class="mono">${esc(st.backup.root)}</span> · ` : ''}붙음 ${st.backup.n}/${st.backup.of}${st.backup.bad ? ` · <b class="t-warn">맞지 않음 ${st.backup.bad}</b>` : ''} ${!st.backup.n ? '<span class="chip c-warn">백업 없음</span>' : pcBad ? `<span class="chip c-warn">${esc(pcBad.b)}</span><small>${esc(pcBad.t)}</small>` : st.backup.n < st.backup.of ? '<span class="chip c-warn">일부만</span>' : '<span class="chip c-acc">잘 된다</span>'}</span><span>판</span><span>kmd v${esc(st.version)}</span></div></div></div>
   ${pcBackupCard(st)}

diff --git a/docs_ops/manual/지식관리자.html b/docs_ops/manual/지식관리자.html
@@ -52,7 +52,7 @@
 
 <h2 id="access"><span class="m-no">4</span>권한: 이 지식의 자리</h2>
 <figure class="m-shot"><div class="m-frame"><div class="m-bar"><i></i><i></i><i></i><span>지식 카드 ⋯ › 권한</span></div><div class="m-pic"><img src="img/t-access.png" alt="권한 창: 주인 · 모두 · 사람 · 묶음 줄마다 자리" loading="lazy"></div></div>
-<figcaption>개편 전 화면. 창 아래 자리 설명(정리 · 「정리를 맡길 사람」)은 개편 전 글이고, 지금 자리는 아래 표대로다. 주인 한 사람(맨 위 고정 · 늘 지식관리자) · 「모두」 기본 자리(처음은 없음) · 사람 · 묶음 줄마다 없음 · 읽기 · 쓰기 · 지식관리자.</figcaption></figure>
+<figcaption>주인 한 사람(맨 위 고정 · 늘 지식관리자) · 「모두」 기본 자리(처음은 없음) · 사람 · 묶음 줄마다 없음 · 읽기 · 쓰기 · 지식관리자.</figcaption></figure>
 <div class="m-flow"><div class="m-st"><b>없음</b><small>보이지 않는다(기본)</small></div><span class="m-ar">‹</span><div class="m-st"><b>읽기</b><small>보기 · 찾기 · Claude 로 읽기</small></div><span class="m-ar">‹</span><div class="m-st m-hi"><b>쓰기</b><small>저장 · 고치기 · 파일 넣기</small></div><span class="m-ar">‹</span><div class="m-st m-pd"><b>지식관리자</b><small>항목 지우기 · 다듬기 · 넣지 못함 · 권한</small></div></div>
 <ul>
 <li>실제 자리는 사람 줄과 그 사람이 든 묶음 가운데 <b>높은 것</b>이다.</li>
@@ -63,7 +63,7 @@
 
 <h2 id="sources"><span class="m-no">5</span>가져올 곳</h2>
 <figure class="m-shot"><div class="m-frame"><div class="m-bar"><i></i><i></i><i></i><span>가져오기 › + 가져올 곳 더하기</span></div><div class="m-pic"><img src="img/t-source-add.png" alt="가져올 곳 더하기 창: 문서 폴더 · 소스 코드 · DB" loading="lazy"></div></div>
-<figcaption>개편 전 화면(창의 「정리가 … 넣는다」 는 지금 「팀 일꾼이 … 넣는다」). 유형마다 칸이 다르다. 더하면 바로 한 번 가져온다.</figcaption></figure>
+<figcaption>유형마다 칸이 다르다. 더하면 바로 한 번 가져온다.</figcaption></figure>
 <div class="m-tbl"><table><tr><th>유형</th><th>들어오는 것</th><th>누가 더하나</th></tr>
 <tr><td>문서 폴더</td><td>바뀐 파일만. 파일마다 팀 일꾼이 기록과 항목 글을 한 번에 지어 갈래 · 주제 문서의 항목에 넣는다(못 넘으면 기록만 + 넣지 못함). 원본에서 지운 파일은 지식을 바꾸지 않는다</td><td>서버 폴더는 총괄 관리자</td></tr>
 <tr><td>소스 코드(git)</td><td>더한 때의 묶음이 기준. 새 묶음마다 팀 일꾼이 바뀐 값 · 차이를 읽고 기록과 걸린 항목의 글을 한 번에 고친다(넣을 항목이 없으면 기록만 + 넣지 못함)</td><td>허락된 호스트(<code>sourceHosts</code>)의 https 는 지식관리자 · ssh 는 총괄 관리자</td></tr>
